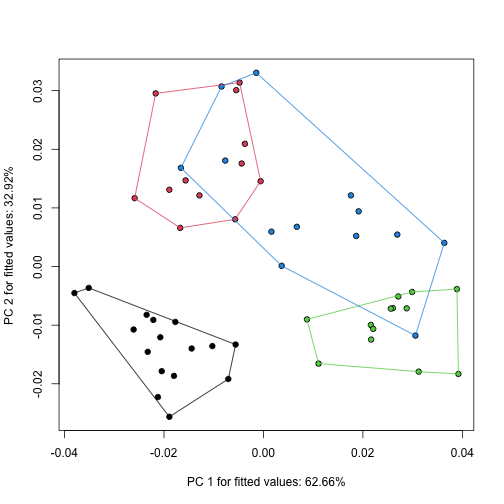
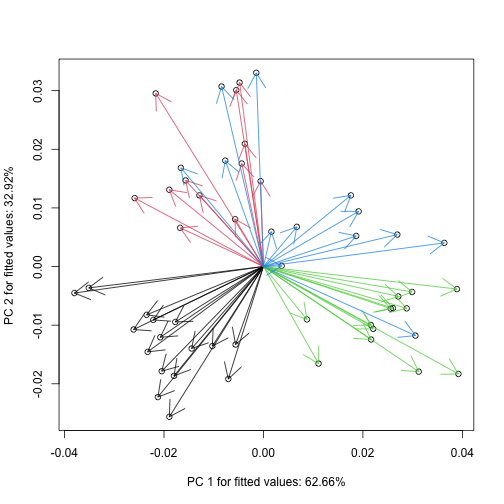
updated lecture 11

diff --git a/GMcourse/Lectures/11-RRPPExtensions.html b/GMcourse/Lectures/11-RRPPExtensions.html
@@ -404,19 +404,12 @@ Shape | *NA* | `\(D_P = \left(\left( \mathbf{\gamma}_1 -  \mathbf{\gamma}_2 \rig
 
 ---
 ### Generalized Procrustes Analysis
-.center[
-&lt;img src="LectureData/11.RRPPExtensions/pta/Slide05.png" width="65%" /&gt;
-]
----
-### Generalized Procrustes Analysis (Cont.)
-.center[
-&lt;img src="LectureData/11.RRPPExtensions/pta/Slide06.png" width="65%" /&gt;
-]
----
 
-### Generalized Procrustes Analysis (Cont.)
+**Using trajectories as shapes, which in fact they are.**
+
 .center[
-&lt;img src="LectureData/11.RRPPExtensions/pta/Slide07.Png" width="70%" /&gt;
+![](11-RRPPExtensions_files/figure-html/unnamed-chunk-21-1.png)&lt;!-- --&gt;
+
 ]
 ---
 
@@ -641,7 +634,7 @@ shapeHulls(P, pupfish$Group, group.cols = c(1,3,2,4))
 
 ]]
 .pull-right[.med[
-![](11-RRPPExtensions_files/figure-html/unnamed-chunk-47-1.png)&lt;!-- --&gt;
+![](11-RRPPExtensions_files/figure-html/unnamed-chunk-45-1.png)&lt;!-- --&gt;
 ]]
 ---
 ### Disparity: Example (cont.)
@@ -733,7 +726,7 @@ summary(MD)
 .pull.right[
 Sinkhole males had significantly greater shape disparity than the Marsh fish, but not sinkhole females.
 
-&lt;img src="11-RRPPExtensions_files/figure-html/unnamed-chunk-51-1.png" width="30%" /&gt;
+&lt;img src="11-RRPPExtensions_files/figure-html/unnamed-chunk-49-1.png" width="30%" /&gt;
 ]
 
 ---
@@ -777,7 +770,7 @@ where `\(N = \sum{n_i}\)`
 
 #### Fractional parts of the whole
 
-![](11-RRPPExtensions_files/figure-html/unnamed-chunk-53-1.png)&lt;!-- --&gt;
+![](11-RRPPExtensions_files/figure-html/unnamed-chunk-51-1.png)&lt;!-- --&gt;
 ---
 ### Foote's Partial Disparity (cont.)
 
